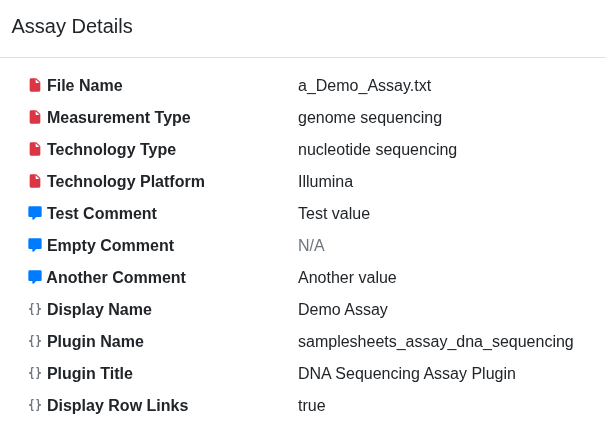
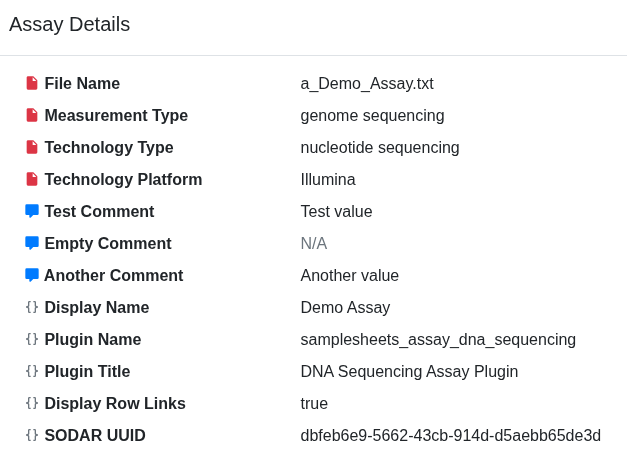
add sheet detail list uuid and copy button (#2303)

diff --git a/samplesheets/vueapp/tests/unit/TableDetailModal.spec.js b/samplesheets/vueapp/tests/unit/TableDetailModal.spec.js
@@ -7,11 +7,13 @@ import {
   waitRAF
 } from '../testUtils.js'
 import BootstrapVue from 'bootstrap-vue'
+import VueClipboard from 'vue-clipboard2'
 import TableDetailModal from '@/components/modals/TableDetailModal.vue'
 
 // Set up extended Vue constructor
 const localVue = createLocalVue()
 localVue.use(BootstrapVue)
+localVue.use(VueClipboard)
 
 describe('TableDetailModal.vue', () => {
   beforeEach(() => {
@@ -27,13 +29,13 @@ describe('TableDetailModal.vue', () => {
     await waitRAF()
 
     expect(wrapper.find('#sodar-ss-table-detail-container').exists()).toBe(true)
-    expect(wrapper.findAll('.sodar-ss-table-detail-row').length).toBe(8)
-    expect(wrapper.findAll('.sodar-ss-table-detail-legend').length).toBe(8)
-    expect(wrapper.findAll('.sodar-ss-table-detail-value').length).toBe(8)
+    expect(wrapper.findAll('.sodar-ss-table-detail-row').length).toBe(9)
+    expect(wrapper.findAll('.sodar-ss-table-detail-legend').length).toBe(9)
+    expect(wrapper.findAll('.sodar-ss-table-detail-value').length).toBe(9)
     expect(wrapper.findAll('.sodar-ss-table-detail-value-empty').length).toBe(3)
     expect(wrapper.findAll('.sodar-ss-table-detail-row-meta').length).toBe(4)
     expect(wrapper.findAll('.sodar-ss-table-detail-row-comment').length).toBe(0)
-    expect(wrapper.findAll('.sodar-ss-table-detail-row-sodar').length).toBe(4)
+    expect(wrapper.findAll('.sodar-ss-table-detail-row-sodar').length).toBe(5)
   })
 
   it('renders modal with study details', async () => {
@@ -44,11 +46,11 @@ describe('TableDetailModal.vue', () => {
     await waitRAF()
 
     expect(wrapper.find('#sodar-ss-table-detail-container').exists()).toBe(true)
-    expect(wrapper.findAll('.sodar-ss-table-detail-row').length).toBe(9)
+    expect(wrapper.findAll('.sodar-ss-table-detail-row').length).toBe(10)
     expect(wrapper.findAll('.sodar-ss-table-detail-value-empty').length).toBe(5)
     expect(wrapper.findAll('.sodar-ss-table-detail-row-meta').length).toBe(4)
     expect(wrapper.findAll('.sodar-ss-table-detail-row-comment').length).toBe(2)
-    expect(wrapper.findAll('.sodar-ss-table-detail-row-sodar').length).toBe(3)
+    expect(wrapper.findAll('.sodar-ss-table-detail-row-sodar').length).toBe(4)
   })
 
   it('renders modal with assay comments', async () => {
@@ -63,7 +65,7 @@ describe('TableDetailModal.vue', () => {
     await waitRAF()
 
     expect(wrapper.find('#sodar-ss-table-detail-container').exists()).toBe(true)
-    expect(wrapper.findAll('.sodar-ss-table-detail-row').length).toBe(10)
+    expect(wrapper.findAll('.sodar-ss-table-detail-row').length).toBe(11)
     expect(wrapper.findAll('.sodar-ss-table-detail-row-comment').length).toBe(2)
     expect(wrapper.findAll('.sodar-ss-table-detail-value-empty').length).toBe(4)
   })

diff --git a/samplesheets/vueapp/tests/unit/TableDetailListRow.spec.js b/samplesheets/vueapp/tests/unit/TableDetailListRow.spec.js
@@ -1,8 +1,12 @@
 import { createLocalVue, mount } from '@vue/test-utils'
 import TableDetailListRow from '@/components/TableDetailListRow'
+import BootstrapVue from 'bootstrap-vue'
+import VueClipboard from 'vue-clipboard2'
 
 // Set up extended Vue constructor
 const localVue = createLocalVue()
+localVue.use(BootstrapVue)
+localVue.use(VueClipboard)
 
 // Init data
 let propsData
@@ -42,6 +46,7 @@ describe('TableDetailListRow.vue', () => {
     expect(wrapper.find('dd').text()).toBe(propsData.value)
     expect(wrapper.find('dd').classes()).not.toContain('sodar-ss-table-detail-value-empty')
     expect(wrapper.find('dd').classes()).not.toContain('text-muted')
+    expect(wrapper.find('.sodar-ss-clip-copy-btn').exists()).toBe(false)
   })
 
   it('renders list row with empty value', () => {
@@ -52,5 +57,21 @@ describe('TableDetailListRow.vue', () => {
     expect(wrapper.find('dd').text()).toBe('N/A')
     expect(wrapper.find('dd').classes()).toContain('sodar-ss-table-detail-value-empty')
     expect(wrapper.find('dd').classes()).toContain('text-muted')
+  })
+
+  it('renders list row with copy button', () => {
+    propsData.copyButton = true
+    const wrapper = mount(
+      TableDetailListRow, { localVue, propsData: propsData })
+
+    expect(wrapper.find('dl').classes()).toContain('row-class')
+    expect(wrapper.find('dt').text()).toBe(propsData.legend)
+    expect(wrapper.find('dt').find('i').attributes('data-icon')).toBe('mdi:file')
+    expect(wrapper.find('dt').find('i').attributes('title')).toBe('Row Title')
+    expect(wrapper.find('dt').find('i').attributes('class')).toBe('iconify text-primary')
+    expect(wrapper.find('dd').text()).toBe(propsData.value)
+    expect(wrapper.find('dd').classes()).not.toContain('sodar-ss-table-detail-value-empty')
+    expect(wrapper.find('dd').classes()).not.toContain('text-muted')
+    expect(wrapper.find('.sodar-ss-clip-copy-btn').exists()).toBe(true)
   })
 })

diff --git a/samplesheets/vueapp/src/components/TableDetailListRow.vue b/samplesheets/vueapp/src/components/TableDetailListRow.vue
@@ -12,6 +12,15 @@
       <dd v-if="!(['', null].includes(value))"
           class="col-md-9 sodar-ss-table-detail-value">
         {{ value }}
+        <span v-if="copyButton" class="pull-right">
+          <b-button
+              variant="secondary"
+              class="sodar-list-btn sodar-ss-clip-copy-btn"
+              :title="'Copy ' + legend + ' into clipboard'"
+              v-clipboard:copy="value">
+            <i class="iconify" data-icon="mdi:clipboard-text-multiple"></i>
+          </b-button>
+        </span>
       </dd>
       <dd v-else
           class="col-md-9 sodar-ss-table-detail-value
@@ -29,6 +38,7 @@ export default {
     'value',
     'icon',
     'iconClass',
+    'copyButton',
     'title',
     'rowClass'
   ]

diff --git a/samplesheets/vueapp/src/components/TableDetailList.vue b/samplesheets/vueapp/src/components/TableDetailList.vue
@@ -31,6 +31,15 @@
         title="SODAR metadata"
         row-class="sodar-ss-table-detail-row-sodar">
     </table-detail-list-row>
+    <table-detail-list-row
+        legend="SODAR UUID"
+        :value="tableUuid"
+        icon="mdi:code-braces"
+        icon-class="text-secondary"
+        :copy-button="true"
+        title="SODAR metadata"
+        row-class="sodar-ss-table-detail-row-sodar">
+    </table-detail-list-row>
   </div>
 </template>
 
@@ -42,6 +51,7 @@ export default {
   components: { TableDetailListRow },
   props: [
     'assayMode',
+    'tableUuid',
     'tableContext',
     'tableMetaFields',
     'tableSodarFields' // NOTE: This has to be in incorrect case to work

diff --git a/samplesheets/vueapp/tests/unit/Overview.spec.js b/samplesheets/vueapp/tests/unit/Overview.spec.js
@@ -1,11 +1,13 @@
 import { createLocalVue, mount } from '@vue/test-utils'
 import BootstrapVue from 'bootstrap-vue'
+import VueClipboard from 'vue-clipboard2'
 import Overview from '@/components/Overview.vue'
 import sodarContext from './data/sodarContext.json'
 
 // Set up extended Vue constructor
 const localVue = createLocalVue()
 localVue.use(BootstrapVue)
+localVue.use(VueClipboard)
 
 // Init data
 let propsData

diff --git a/samplesheets/vueapp/src/components/modals/TableDetailModal.vue b/samplesheets/vueapp/src/components/modals/TableDetailModal.vue
@@ -9,6 +9,7 @@
       <table-detail-list
           v-if="tableContext"
           :assay-mode="assayMode"
+          :table-uuid="gridUuid"
           :table-context="tableContext"
           :table-meta-fields="tableMetaFields"
           :table-sodar-fields="tableSODARFields"

diff --git a/CHANGELOG.rst b/CHANGELOG.rst
@@ -41,9 +41,9 @@ Added
     - ``checksampleaccess`` command debug logging (#2261)
     - ``syncstudytables`` ``check`` arg (#1794)
     - ``SheetContextAjaxView`` assay details and comments (#1827)
-    - ``TableDetailModal`` Vue app component for displaying study and assay details (#1827, #2265)
+    - ``TableDetailModal`` Vue app component for displaying study and assay details (#1827, #2265, #2303)
     - ``SheetContextAjaxView`` additional study details (#2265)
-    - ``TableDetailList`` and ``TableDetailListRow`` Vue app components (#2011, #2268)
+    - ``TableDetailList`` and ``TableDetailListRow`` Vue app components (#2011, #2268, #2303)
     - Assay details in sheet overview (#2011)
     - ``SHEETS_SYNC_ENABLE`` Django setting (#2247)
     - Periodic celery task setup logging (#2247)
